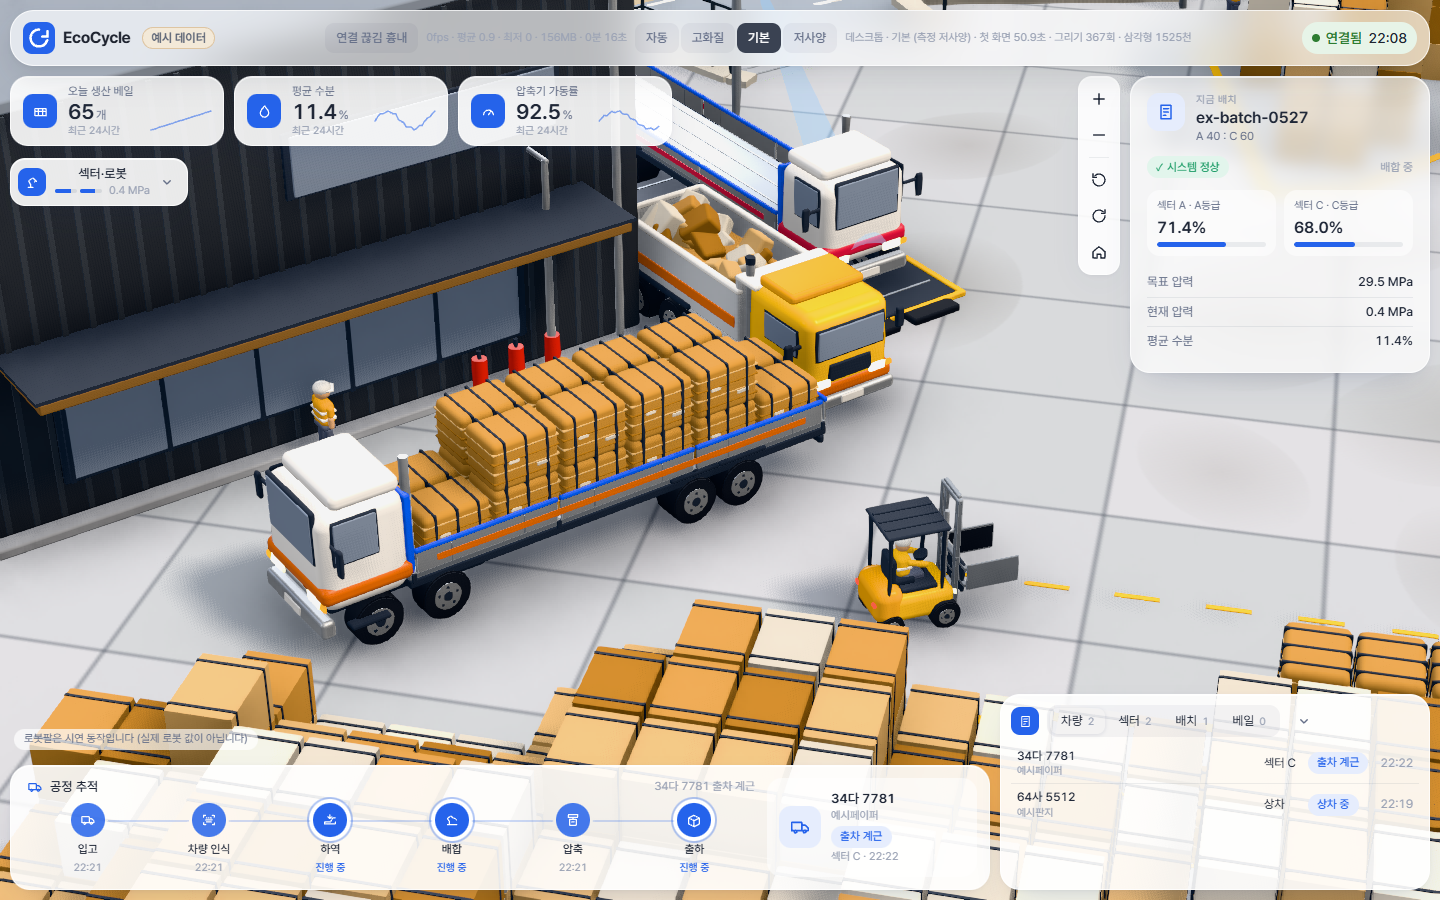
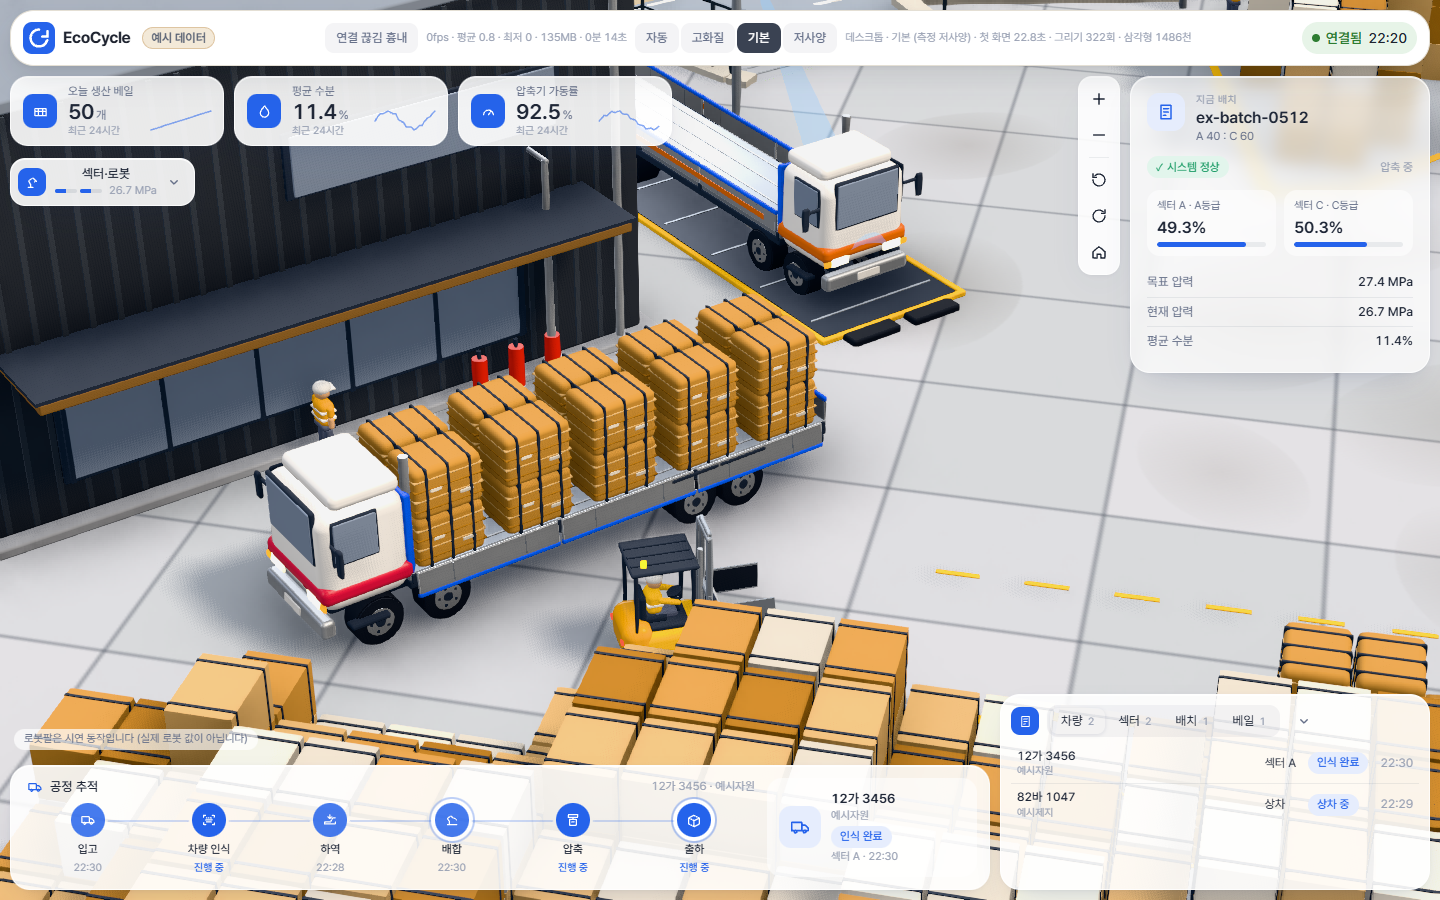
feat(studio): 상차 20개를 5열 × 2줄 × 2단으로, 아래 단을 다 채운 뒤 위 단

diff --git a/app/src/studio/world/layout.ts b/app/src/studio/world/layout.ts
@@ -979,30 +979,28 @@ export const SCALE_CLEAR = 6.6;
 
 /**
  * 상차 차량(25톤 카고)의 베일 자리: 트럭 기준 (앞뒤 along, 옆 across(+는 트럭 로컬 +z), 단 level). 베일 1.5 m 쪽이 차 길이 방향,
- * 6열 × 2줄 × 2단 = 24자리 (S2j 사용자 결정). 적재함 10.1 × 2.35 m 안에 틈 0.1 m로 든다
+ * 5열 × 2줄 × 2단 = 20자리, 위아래 단이 같은 자리에 5개씩 맞게 (S2j 사용자 결정). 열은 적재함 길이 10.1 m를 다섯으로 나눈 가운데에 고르게 둔다
  */
 export interface LoadSlot {
   along: number;
   across: number;
   level: number;
 }
-const LOAD_COLS = 6;
-const LOAD_PITCH = BALE.d + BALE_GAP;
-const LOAD_ALONG0 = LOAD_BED_REAR + 0.1 + BALE.d / 2;
+const LOAD_COLS = 5;
+const LOAD_PITCH = LOAD_TRUCK.bedLength / LOAD_COLS;
+const LOAD_ALONG0 = LOAD_BED_REAR + LOAD_PITCH / 2;
 const LOAD_ACROSS = BALE.w / 2 + BALE_GAP / 2;
 export const LOAD_SLOTS: readonly LoadSlot[] = [0, 1].flatMap((level) =>
   [-1, 1].flatMap((side) => Array.from({ length: LOAD_COLS }, (_, i) => ({ along: LOAD_ALONG0 + i * LOAD_PITCH, across: side * LOAD_ACROSS, level }))),
 );
 /**
- * 싣는 차례(LOAD_SLOTS 번호, 20개): 서쪽 곁(트럭 로컬 −z, 북쪽을 보고 선 차의 서쪽)에서 가까운 줄 아래 단 6개 → 위 단 가운데 4개,
- * 이어서 차 앞을 돌아 동쪽 곁(+z)에서 같은 순서. 한쪽 곁 베일을 몰아 실어 돌아가는 것은 한 번뿐이다.
- * 서버가 실었다고 한 수(baleIds)가 이보다 적으면 앞에서부터 그만큼만 싣는다
+ * 싣는 차례(LOAD_SLOTS 번호, 20개): 아래 단을 다 채운 뒤 위 단 (S2j 사용자 결정).
+ * 서쪽 곁(트럭 로컬 −z, 북쪽을 보고 선 차의 서쪽) 아래 단 5개 → 차 앞을 돌아 동쪽 곁 아래 단 5개 → 그대로 동쪽 위 단 5개 → 다시 돌아 서쪽 위 단 5개.
+ * 돌아가는 것은 두 번뿐이다. 서버가 실었다고 한 수(baleIds)가 이보다 적으면 앞에서부터 그만큼만 싣는다
  */
 const slotIndex = (side: -1 | 1, level: number, col: number): number => level * 2 * LOAD_COLS + (side < 0 ? 0 : LOAD_COLS) + col;
-export const LOAD_ORDER: readonly number[] = ([-1, 1] as const).flatMap((side) => [
-  ...[0, 1, 2, 3, 4, 5].map((c) => slotIndex(side, 0, c)),
-  ...[1, 2, 3, 4].map((c) => slotIndex(side, 1, c)),
-]);
+const COLS = Array.from({ length: LOAD_COLS }, (_, c) => c);
+export const LOAD_ORDER: readonly number[] = ([[-1, 0], [1, 0], [1, 1], [-1, 1]] as const).flatMap(([side, level]) => COLS.map((c) => slotIndex(side, level, c)));
 /** 상차 차량의 적재함 바닥 높이 */
 export const LOAD_BED_Y = LOAD_TRUCK.deckY;
 

diff --git a/app/src/studio/world/layout.test.ts b/app/src/studio/world/layout.test.ts
@@ -213,10 +213,10 @@ describe('사진 → 월드 변환 (sitePx)', () => {
     // 트럭 길이는 베일 길이의 5배, 폭은 베일 폭의 2.2배 (실제 비율)
     expect(TRUCK.length / BALE.d).toBeCloseTo(5, 6);
     expect(1.01 * WORKER_SCALE * M_PER_UNIT).toBeCloseTo(1.75, 6);
-    // 상차 트럭(25톤 카고, S2j): 12 × 2.5 m, 적재함 10.1 × 2.35 m. 베일 24자리가 모두 적재함 안에, 서로 겹치지 않게
+    // 상차 트럭(25톤 카고, S2j): 12 × 2.5 m, 적재함 10.1 × 2.35 m. 베일 20자리(5열 × 2줄 × 2단)가 모두 적재함 안에, 서로 겹치지 않게
     expect(LOAD_TRUCK.length * M_PER_UNIT).toBeCloseTo(12, 6);
     expect(LOAD_TRUCK.width * M_PER_UNIT).toBeCloseTo(2.5, 6);
-    expect(LOAD_SLOTS).toHaveLength(24);
+    expect(LOAD_SLOTS).toHaveLength(20);
     expect(LOAD_ORDER).toHaveLength(20);
     expect(new Set(LOAD_ORDER).size).toBe(20);
     for (const slot of LOAD_SLOTS) {
@@ -235,6 +235,9 @@ describe('사진 → 월드 변환 (sitePx)', () => {
       expect(LOAD_ORDER.indexOf(below)).toBeGreaterThanOrEqual(0);
       expect(LOAD_ORDER.indexOf(below)).toBeLessThan(k);
     });
+    // 아래 단 10개를 다 채운 뒤 위 단 10개 (위아래 단이 5개씩 같은 자리, S2j 사용자 결정)
+    expect(LOAD_ORDER.slice(0, 10).every((i) => LOAD_SLOTS[i]!.level === 0)).toBe(true);
+    expect(LOAD_ORDER.slice(10).every((i) => LOAD_SLOTS[i]!.level === 1)).toBe(true);
   });
 
   it('지게차(S2k): 몸체 폭 1.2 m(3톤급), 베일 클램프 판 사이는 베일 폭(1.1 m)보다 넓고 판 길이는 베일 길이의 0.65 이상', () => {
